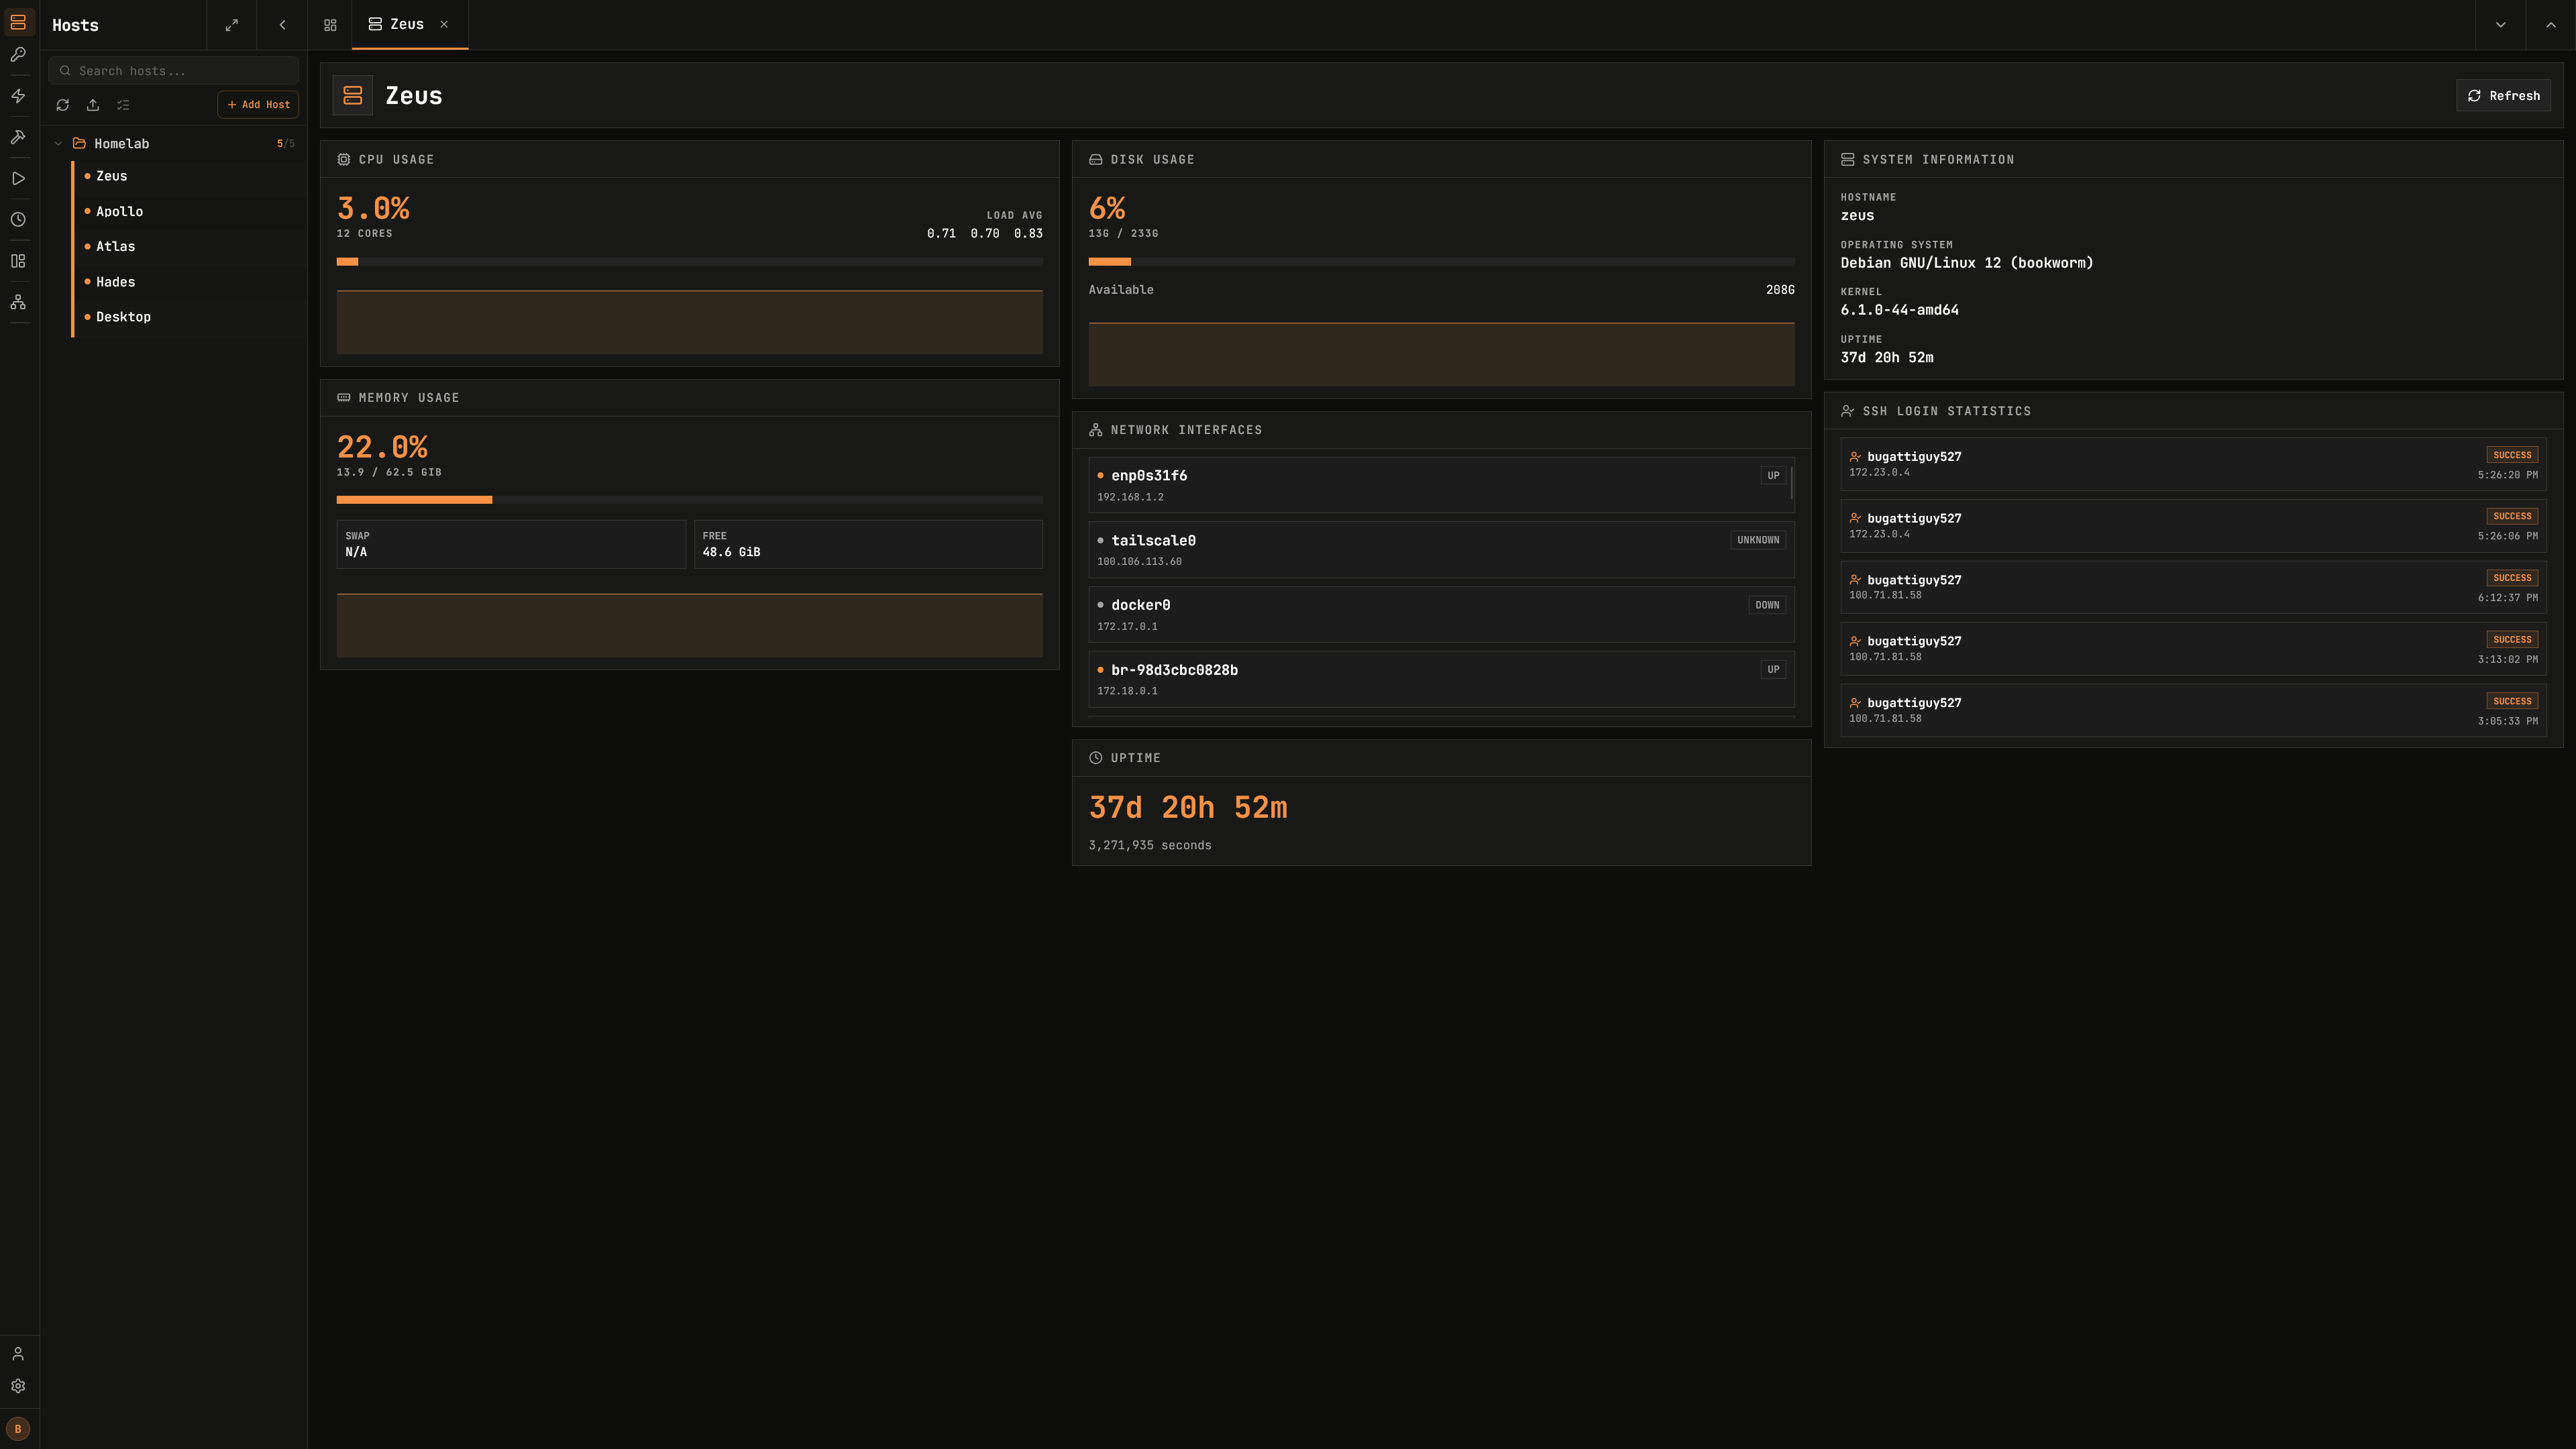
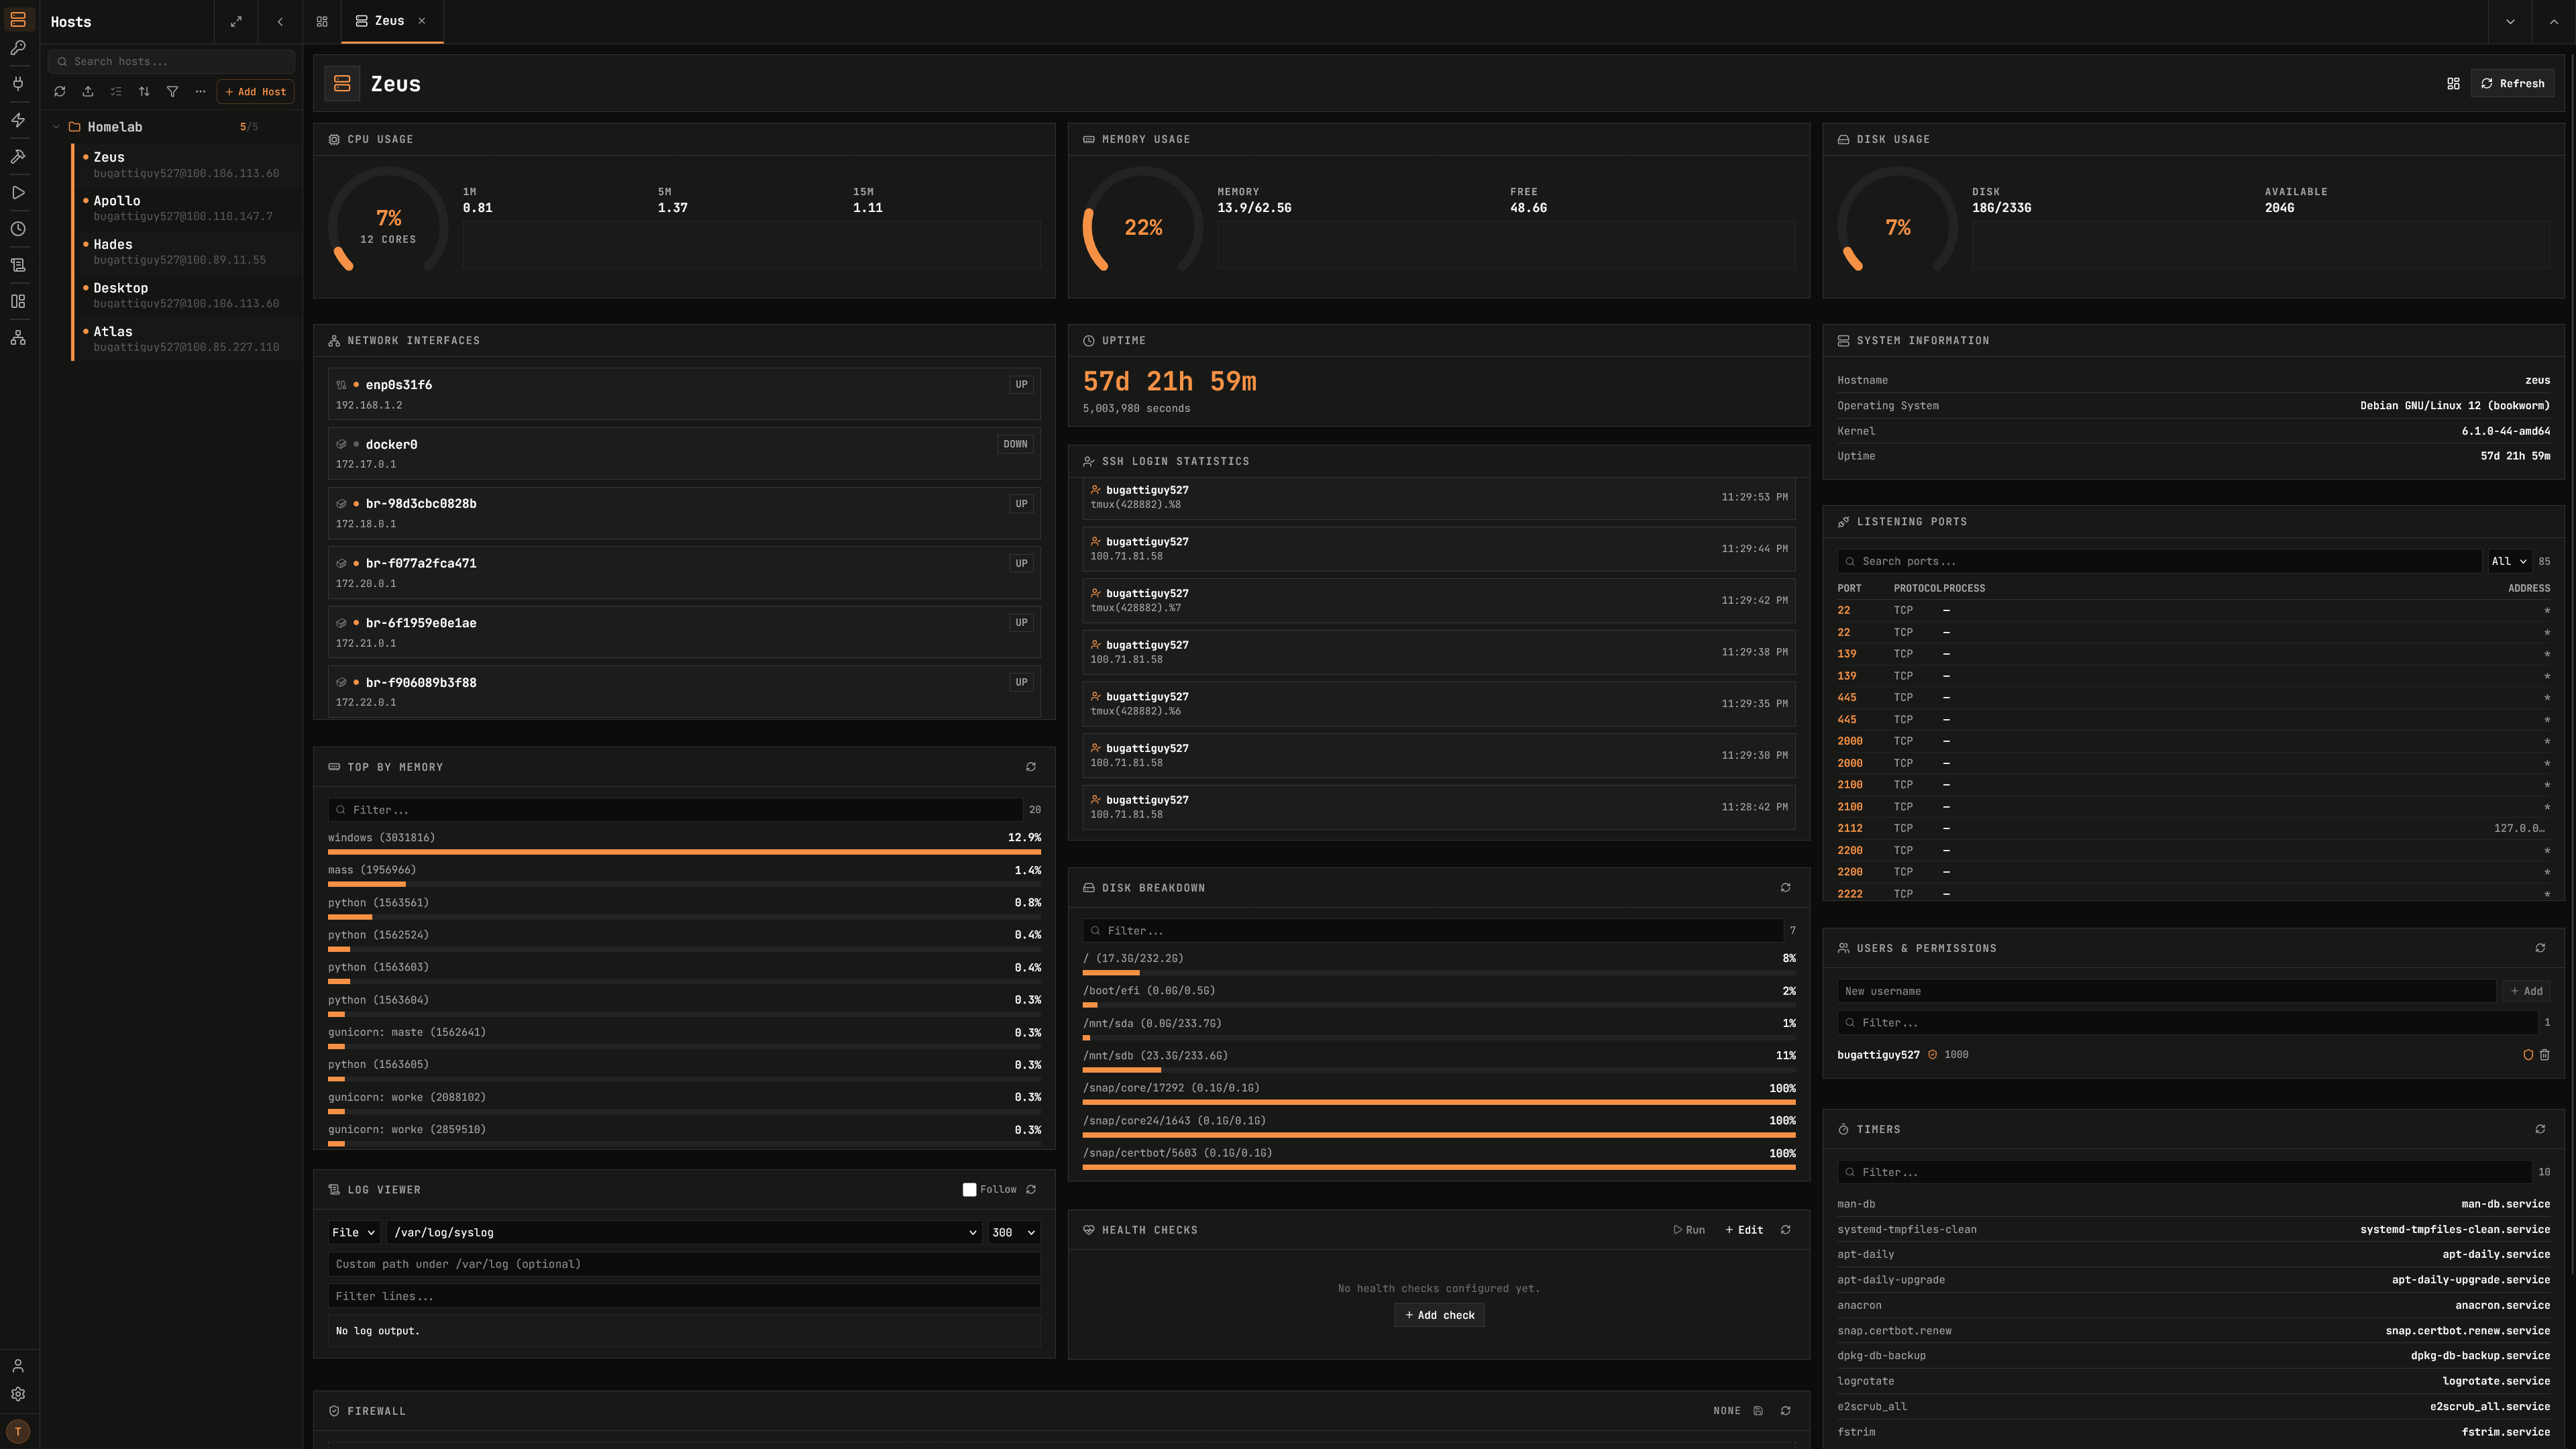
chore: update readmes

diff --git a/README.md b/README.md
@@ -94,21 +94,21 @@ Start, stop, pause, remove containers. View container stats. Control container u
 <td width="50%" valign="top">
 
 **SSH Host Manager:**
-Save, organize, and manage your SSH connections with tags and folders, and easily save reusable login info while being able to automate the deployment of SSH keys.
+Save, organize, and manage your SSH connections with tags and folders (folder customization and nested folder support), and easily save reusable login info while being able to automate the deployment of SSH keys.
 
 </td>
 </tr>
 <tr>
 <td width="50%" valign="top">
 
-**Server Stats:**
-View CPU, memory, and disk usage along with network, uptime, system information, firewall, port monitor, on most Linux based servers.
+**Host Metrics:**
+View CPU, memory, disk usage, network, uptime, system information, firewall, port monitor, log viewer, users/permissions, certificates, and many more which work on most Linux based servers.
 
 </td>
 <td width="50%" valign="top">
 
 **User Authentication:**
-Secure user management with admin controls and OIDC (with access control) and 2FA (TOTP) support. View active user sessions across all platforms and revoke permissions. Link your OIDC/Local accounts together.
+Secure user management with admin controls and OIDC/LDAP/SSO (with access control) and 2FA (TOTP) support. View active user sessions across all platforms and revoke permissions. Link your OIDC/Local accounts together. View audit log of all users actions.
 
 </td>
 </tr>
@@ -170,7 +170,8 @@ Built-in support ~30 languages (managed by [Crowdin](https://docs.termix.site/tr
 - **Command History** - Auto-complete and view previously ran SSH commands
 - **Quick Connect** - Connect to a server without having to save the connection data
 - **Command Palette** - Double tap left shift to quickly access SSH connections with your keyboard
-- **SSH Feature Rich** - Supports jump hosts, Warpgate, TOTP based connections, SOCKS5, host key verification, password autofill, [OPKSSH](https://github.com/openpubkey/opkssh), tmux, port knocking, etc.
+- **Proxmox Integration** - Auto-add hosts into Termix from your Proxmox instance
+- **SSH Feature Rich** - Supports jump hosts, Warpgate, TOTP based connections, SOCKS5, host key verification, password autofill, [OPKSSH](https://github.com/openpubkey/opkssh), tmux, port knocking, terminal logging, etc.
 
 </details>
 

diff --git a/readme/README-DE.md b/readme/README-DE.md
@@ -94,21 +94,21 @@ Container starten, stoppen, pausieren, entfernen. Container-Statistiken anzeigen
 <td width="50%" valign="top">
 
 **SSH-Host-Manager:**
-Speichern, organisieren und verwalten Sie Ihre SSH-Verbindungen mit Tags und Ordnern und speichern Sie einfach wiederverwendbare Anmeldeinformationen mit der Moglichkeit, die Bereitstellung von SSH-Schlusseln zu automatisieren.
+Speichern, organisieren und verwalten Sie Ihre SSH-Verbindungen mit Tags und Ordnern (Ordneranpassung und verschachtelte Ordner werden unterstutzt) und speichern Sie einfach wiederverwendbare Anmeldeinformationen mit der Moglichkeit, die Bereitstellung von SSH-Schlusseln zu automatisieren.
 
 </td>
 </tr>
 <tr>
 <td width="50%" valign="top">
 
-**Serverstatistiken:**
-CPU-, Arbeitsspeicher- und Festplattenauslastung sowie Netzwerk, Betriebszeit, Systeminformationen, Firewall, Port-Monitor auf den meisten Linux-basierten Servern anzeigen.
+**Host-Metriken:**
+CPU-, Arbeitsspeicher- und Festplattenauslastung, Netzwerk, Betriebszeit, Systeminformationen, Firewall, Port-Monitor, Log-Viewer, Benutzer/Berechtigungen, Zertifikate und vieles mehr auf den meisten Linux-basierten Servern anzeigen.
 
 </td>
 <td width="50%" valign="top">
 
 **Benutzerauthentifizierung:**
-Sichere Benutzerverwaltung mit Admin-Kontrollen und OIDC- (mit Zugriffskontrolle) sowie 2FA (TOTP)-Unterstutzung. Aktive Benutzersitzungen uber alle Plattformen anzeigen und Berechtigungen widerrufen. OIDC-/Lokale Konten miteinander verknupfen.
+Sichere Benutzerverwaltung mit Admin-Kontrollen und OIDC-/LDAP-/SSO-Unterstutzung (mit Zugriffskontrolle) sowie 2FA (TOTP)-Unterstutzung. Aktive Benutzersitzungen uber alle Plattformen anzeigen und Berechtigungen widerrufen. OIDC-/Lokale Konten miteinander verknupfen. Audit-Protokoll aller Benutzeraktionen anzeigen.
 
 </td>
 </tr>
@@ -170,7 +170,8 @@ Integrierte Unterstutzung fur ca. 30 Sprachen (verwaltet uber [Crowdin](https://
 - **Befehlsverlauf** - Autovervollstandigung und Anzeige zuvor ausgefuhrter SSH-Befehle
 - **Schnellverbindung** - Verbinden Sie sich mit einem Server, ohne die Verbindungsdaten speichern zu mussen
 - **Befehlspalette** - Doppeltippen Sie die linke Umschalttaste, um schnell auf SSH-Verbindungen mit Ihrer Tastatur zuzugreifen
-- **SSH-Funktionsreich** - Unterstutzt Jump-Hosts, Warpgate, TOTP-basierte Verbindungen, SOCKS5, Host-Key-Verifizierung, automatisches Ausfullen von Passwortern, [OPKSSH](https://github.com/openpubkey/opkssh), tmux, Port Knocking usw.
+- **Proxmox-Integration** - Automatisches Hinzufugen von Hosts zu Termix aus Ihrer Proxmox-Instanz
+- **SSH-Funktionsreich** - Unterstutzt Jump-Hosts, Warpgate, TOTP-basierte Verbindungen, SOCKS5, Host-Key-Verifizierung, automatisches Ausfullen von Passwortern, [OPKSSH](https://github.com/openpubkey/opkssh), tmux, Port Knocking, Terminal-Protokollierung usw.
 
 </details>
 

diff --git a/readme/README-ES.md b/readme/README-ES.md
@@ -94,21 +94,21 @@ Inicie, detenga, pause, elimine contenedores. Vea estadisticas de contenedores. 
 <td width="50%" valign="top">
 
 **Gestor de Hosts SSH:**
-Guarde, organice y gestione sus conexiones SSH con etiquetas y carpetas, y guarde facilmente informacion de inicio de sesion reutilizable con la capacidad de automatizar el despliegue de claves SSH.
+Guarde, organice y gestione sus conexiones SSH con etiquetas y carpetas (con personalizacion de carpetas y soporte de carpetas anidadas), y guarde facilmente informacion de inicio de sesion reutilizable con la capacidad de automatizar el despliegue de claves SSH.
 
 </td>
 </tr>
 <tr>
 <td width="50%" valign="top">
 
-**Estadisticas del Servidor:**
-Vea el uso de CPU, memoria y disco junto con red, tiempo de actividad, informacion del sistema, firewall, monitor de puertos en la mayoria de los servidores basados en Linux.
+**Metricas del Host:**
+Vea el uso de CPU, memoria y disco, red, tiempo de actividad, informacion del sistema, firewall, monitor de puertos, visor de registros, usuarios/permisos, certificados y muchos mas en la mayoria de los servidores basados en Linux.
 
 </td>
 <td width="50%" valign="top">
 
 **Autenticacion de Usuarios:**
-Gestion segura de usuarios con controles de administrador y soporte para OIDC (con control de acceso) y 2FA (TOTP). Vea sesiones activas de usuarios en todas las plataformas y revoque permisos. Vincule sus cuentas OIDC/Locales entre si.
+Gestion segura de usuarios con controles de administrador y soporte para OIDC/LDAP/SSO (con control de acceso) y 2FA (TOTP). Vea sesiones activas de usuarios en todas las plataformas y revoque permisos. Vincule sus cuentas OIDC/Locales entre si. Vea el registro de auditoria de las acciones de todos los usuarios.
 
 </td>
 </tr>
@@ -170,7 +170,8 @@ Soporte integrado para aproximadamente 30 idiomas (gestionado por [Crowdin](http
 - **Historial de Comandos** - Autocompletado y visualizacion de comandos SSH ejecutados anteriormente
 - **Conexion Rapida** - Conectese a un servidor sin necesidad de guardar los datos de conexion
 - **Paleta de Comandos** - Pulse dos veces la tecla Shift izquierda para acceder rapidamente a las conexiones SSH con su teclado
-- **SSH Rico en Funciones** - Soporta jump hosts, Warpgate, conexiones basadas en TOTP, SOCKS5, verificacion de clave de host, autocompletado de contrasenas, [OPKSSH](https://github.com/openpubkey/opkssh), tmux, port knocking, etc.
+- **Integracion con Proxmox** - Agregue automaticamente hosts a Termix desde su instancia de Proxmox
+- **SSH Rico en Funciones** - Soporta jump hosts, Warpgate, conexiones basadas en TOTP, SOCKS5, verificacion de clave de host, autocompletado de contrasenas, [OPKSSH](https://github.com/openpubkey/opkssh), tmux, port knocking, registro de terminal, etc.
 
 </details>
 

diff --git a/readme/README-FR.md b/readme/README-FR.md
@@ -94,21 +94,21 @@ Demarrez, arretez, mettez en pause, supprimez des conteneurs. Consultez les stat
 <td width="50%" valign="top">
 
 **Gestionnaire d'hotes SSH:**
-Enregistrez, organisez et gerez vos connexions SSH avec des tags et des dossiers, et sauvegardez facilement les informations de connexion reutilisables tout en automatisant le deploiement des cles SSH.
+Enregistrez, organisez et gerez vos connexions SSH avec des tags et des dossiers (personnalisation des dossiers et prise en charge des dossiers imbriques), et sauvegardez facilement les informations de connexion reutilisables tout en automatisant le deploiement des cles SSH.
 
 </td>
 </tr>
 <tr>
 <td width="50%" valign="top">
 
-**Statistiques serveur:**
-Visualisez l'utilisation du CPU, de la memoire et du disque ainsi que le reseau, le temps de fonctionnement, les informations systeme, le pare-feu et le moniteur de ports sur la plupart des serveurs Linux.
+**Metriques d'hote:**
+Visualisez l'utilisation du CPU, de la memoire, du disque, le reseau, le temps de fonctionnement, les informations systeme, le pare-feu, le moniteur de ports, le visualiseur de journaux, les utilisateurs/permissions, les certificats et bien plus encore sur la plupart des serveurs Linux.
 
 </td>
 <td width="50%" valign="top">
 
 **Authentification des utilisateurs:**
-Gestion securisee des utilisateurs avec controles administrateur et support OIDC (avec controle d'acces) et 2FA (TOTP). Visualisez les sessions utilisateur actives sur toutes les plateformes et revoquez les permissions. Liez vos comptes OIDC/locaux ensemble.
+Gestion securisee des utilisateurs avec controles administrateur et support OIDC/LDAP/SSO (avec controle d'acces) et 2FA (TOTP). Visualisez les sessions utilisateur actives sur toutes les plateformes et revoquez les permissions. Liez vos comptes OIDC/locaux ensemble. Consultez le journal d'audit des actions de tous les utilisateurs.
 
 </td>
 </tr>
@@ -170,7 +170,8 @@ Support integre d'environ 30 langues (gere par [Crowdin](https://docs.termix.sit
 - **Historique des commandes** - Auto-completion et consultation des commandes SSH precedemment executees
 - **Connexion rapide** - Connectez-vous a un serveur sans avoir a sauvegarder les donnees de connexion
 - **Palette de commandes** - Appuyez deux fois sur Shift gauche pour acceder rapidement aux connexions SSH avec votre clavier
-- **SSH riche en fonctionnalites** - Support des hotes de rebond, Warpgate, connexions basees sur TOTP, SOCKS5, verification des cles d'hote, remplissage automatique des mots de passe, [OPKSSH](https://github.com/openpubkey/opkssh), tmux, port knocking, etc.
+- **Integration Proxmox** - Ajoutez automatiquement des hotes dans Termix depuis votre instance Proxmox
+- **SSH riche en fonctionnalites** - Support des hotes de rebond, Warpgate, connexions basees sur TOTP, SOCKS5, verification des cles d'hote, remplissage automatique des mots de passe, [OPKSSH](https://github.com/openpubkey/opkssh), tmux, port knocking, journalisation du terminal, etc.
 
 </details>
 

diff --git a/readme/README-HI.md b/readme/README-HI.md
@@ -94,21 +94,21 @@ Termix एक ओपन-सोर्स, हमेशा के लिए मु
 <td width="50%" valign="top">
 
 **SSH होस्ट मैनेजर:**
-टैग और फ़ोल्डर के साथ अपने SSH कनेक्शन सहेजें, व्यवस्थित करें और प्रबंधित करें, और SSH कुंजियों की तैनाती को स्वचालित करने की क्षमता के साथ पुन: उपयोग योग्य लॉगिन जानकारी आसानी से सहेजें।
+टैग और फ़ोल्डर (फ़ोल्डर कस्टमाइज़ेशन और नेस्टेड फ़ोल्डर सपोर्ट के साथ) के साथ अपने SSH कनेक्शन सहेजें, व्यवस्थित करें और प्रबंधित करें, और SSH कुंजियों की तैनाती को स्वचालित करने की क्षमता के साथ पुन: उपयोग योग्य लॉगिन जानकारी आसानी से सहेजें।
 
 </td>
 </tr>
 <tr>
 <td width="50%" valign="top">
 
-**सर्वर आँकड़े:**
-अधिकांश Linux आधारित सर्वर पर नेटवर्क, अपटाइम, सिस्टम जानकारी, फ़ायरवॉल, पोर्ट मॉनिटर के साथ CPU, मेमोरी और डिस्क उपयोग देखें।
+**होस्ट मेट्रिक्स:**
+अधिकांश Linux आधारित सर्वर पर CPU, मेमोरी, डिस्क उपयोग, नेटवर्क, अपटाइम, सिस्टम जानकारी, फ़ायरवॉल, पोर्ट मॉनिटर, लॉग व्यूअर, उपयोगकर्ता/अनुमतियाँ, सर्टिफ़िकेट और भी बहुत कुछ देखें।
 
 </td>
 <td width="50%" valign="top">
 
 **उपयोगकर्ता प्रमाणीकरण:**
-व्यवस्थापक नियंत्रण और OIDC (एक्सेस कंट्रोल के साथ) और 2FA (TOTP) सपोर्ट के साथ सुरक्षित उपयोगकर्ता प्रबंधन। सभी प्लेटफ़ॉर्म पर सक्रिय उपयोगकर्ता सत्र देखें और अनुमतियाँ रद्द करें। अपने OIDC/स्थानीय खातों को एक साथ जोड़ें।
+व्यवस्थापक नियंत्रण और OIDC/LDAP/SSO (एक्सेस कंट्रोल के साथ) और 2FA (TOTP) सपोर्ट के साथ सुरक्षित उपयोगकर्ता प्रबंधन। सभी प्लेटफ़ॉर्म पर सक्रिय उपयोगकर्ता सत्र देखें और अनुमतियाँ रद्द करें। अपने OIDC/स्थानीय खातों को एक साथ जोड़ें। सभी उपयोगकर्ताओं की कार्रवाइयों का ऑडिट लॉग देखें।
 
 </td>
 </tr>
@@ -170,7 +170,8 @@ Termix एक ओपन-सोर्स, हमेशा के लिए मु
 - **कमांड इतिहास** - पहले चलाए गए SSH कमांड का ऑटो-कम्प्लीट और दृश्य
 - **क्विक कनेक्ट** - कनेक्शन डेटा सहेजे बिना सर्वर से कनेक्ट करें
 - **कमांड पैलेट** - अपने कीबोर्ड से SSH कनेक्शन तक त्वरित पहुँच के लिए बाएँ Shift को दो बार टैप करें
-- **SSH सुविधाओं से भरपूर** - जम्प होस्ट, Warpgate, TOTP आधारित कनेक्शन, SOCKS5, होस्ट की वेरिफ़िकेशन, पासवर्ड ऑटोफ़िल, [OPKSSH](https://github.com/openpubkey/opkssh), tmux, पोर्ट नॉकिंग आदि का सपोर्ट
+- **Proxmox एकीकरण** - अपने Proxmox इंस्टेंस से Termix में होस्ट स्वचालित रूप से जोड़ें
+- **SSH सुविधाओं से भरपूर** - जम्प होस्ट, Warpgate, TOTP आधारित कनेक्शन, SOCKS5, होस्ट की वेरिफ़िकेशन, पासवर्ड ऑटोफ़िल, [OPKSSH](https://github.com/openpubkey/opkssh), tmux, पोर्ट नॉकिंग, टर्मिनल लॉगिंग आदि का सपोर्ट
 
 </details>
 

diff --git a/readme/README-IT.md b/readme/README-IT.md
@@ -94,21 +94,21 @@ Avvia, ferma, metti in pausa, rimuovi container. Visualizza le statistiche dei c
 <td width="50%" valign="top">
 
 **Gestore Host SSH:**
-Salva, organizza e gestisci le tue connessioni SSH con tag e cartelle, salva facilmente le informazioni di accesso riutilizzabili e automatizza il deployment delle chiavi SSH.
+Salva, organizza e gestisci le tue connessioni SSH con tag e cartelle (con personalizzazione delle cartelle e supporto per cartelle annidate), salva facilmente le informazioni di accesso riutilizzabili e automatizza il deployment delle chiavi SSH.
 
 </td>
 </tr>
 <tr>
 <td width="50%" valign="top">
 
-**Statistiche Server:**
-Visualizza l'utilizzo di CPU, memoria e disco insieme a rete, uptime, informazioni di sistema, firewall, monitoraggio porte sulla maggior parte dei server basati su Linux.
+**Metriche Host:**
+Visualizza l'utilizzo di CPU, memoria, disco, rete, uptime, informazioni di sistema, firewall, monitoraggio porte, visualizzatore di log, utenti/permessi, certificati e molto altro sulla maggior parte dei server basati su Linux.
 
 </td>
 <td width="50%" valign="top">
 
 **Autenticazione Utente:**
-Gestione utenti sicura con controlli amministrativi e supporto OIDC (con controllo degli accessi) e 2FA (TOTP). Visualizza le sessioni utente attive su tutte le piattaforme e revoca i permessi. Collega i tuoi account OIDC/Locali tra loro.
+Gestione utenti sicura con controlli amministrativi e supporto OIDC/LDAP/SSO (con controllo degli accessi) e 2FA (TOTP). Visualizza le sessioni utente attive su tutte le piattaforme e revoca i permessi. Collega i tuoi account OIDC/Locali tra loro. Visualizza il log di controllo delle azioni di tutti gli utenti.
 
 </td>
 </tr>
@@ -170,7 +170,8 @@ Supporto integrato per circa 30 lingue (gestito da [Crowdin](https://docs.termix
 - **Cronologia Comandi** - Autocompletamento e visualizzazione dei comandi SSH eseguiti in precedenza
 - **Connessione Rapida** - Connettiti a un server senza dover salvare i dati di connessione
 - **Palette Comandi** - Premi due volte shift sinistro per accedere rapidamente alle connessioni SSH con la tastiera
-- **SSH Ricco di Funzionalita** - Supporta jump host, Warpgate, connessioni basate su TOTP, SOCKS5, verifica chiave host, compilazione automatica password, [OPKSSH](https://github.com/openpubkey/opkssh), tmux, port knocking, ecc.
+- **Integrazione Proxmox** - Aggiungi automaticamente host a Termix dalla tua istanza Proxmox
+- **SSH Ricco di Funzionalita** - Supporta jump host, Warpgate, connessioni basate su TOTP, SOCKS5, verifica chiave host, compilazione automatica password, [OPKSSH](https://github.com/openpubkey/opkssh), tmux, port knocking, registrazione terminale, ecc.
 
 </details>
 

diff --git a/readme/README-KO.md b/readme/README-KO.md
@@ -94,21 +94,21 @@ Termix는 오픈 소스이며 영구 무료인 셀프 호스팅 올인원 서버
 <td width="50%" valign="top">
 
 **SSH 호스트 관리자:**
-태그와 폴더로 SSH 연결을 저장, 정리, 관리하고, 재사용 가능한 로그인 정보를 쉽게 저장하면서 SSH 키 배포를 자동화.
+태그와 폴더(폴더 사용자 지정 및 중첩 폴더 지원)로 SSH 연결을 저장, 정리, 관리하고, 재사용 가능한 로그인 정보를 쉽게 저장하면서 SSH 키 배포를 자동화.
 
 </td>
 </tr>
 <tr>
 <td width="50%" valign="top">
 
-**서버 통계:**
-대부분의 Linux 기반 서버에서 CPU, 메모리, 디스크 사용량과 함께 네트워크, 업타임, 시스템 정보, 방화벽, 포트 모니터를 표시.
+**호스트 메트릭:**
+대부분의 Linux 기반 서버에서 CPU, 메모리, 디스크 사용량, 네트워크, 업타임, 시스템 정보, 방화벽, 포트 모니터, 로그 뷰어, 사용자/권한, 인증서 등 다양한 정보를 표시.
 
 </td>
 <td width="50%" valign="top">
 
 **사용자 인증:**
-관리자 제어와 OIDC(액세스 제어 포함) 및 2FA(TOTP) 지원을 통한 안전한 사용자 관리. 모든 플랫폼에서 활성 사용자 세션을 보고 권한을 취소 가능. OIDC/로컬 계정 연동.
+관리자 제어와 OIDC/LDAP/SSO(액세스 제어 포함) 및 2FA(TOTP) 지원을 통한 안전한 사용자 관리. 모든 플랫폼에서 활성 사용자 세션을 보고 권한을 취소 가능. OIDC/로컬 계정 연동. 모든 사용자 작업의 감사 로그 조회.
 
 </td>
 </tr>
@@ -170,7 +170,8 @@ Termix는 오픈 소스이며 영구 무료인 셀프 호스팅 올인원 서버
 - **명령어 기록** - 이전에 실행한 SSH 명령어의 자동 완성 및 조회
 - **빠른 연결** - 연결 데이터를 저장하지 않고 서버에 접속
 - **명령어 팔레트** - 왼쪽 Shift 키를 두 번 눌러 키보드로 SSH 연결에 빠르게 접근
-- **풍부한 SSH 기능** - 점프 호스트, Warpgate, TOTP 기반 연결, SOCKS5, 호스트 키 검증, 비밀번호 자동 입력, [OPKSSH](https://github.com/openpubkey/opkssh), tmux, 포트 노킹 등 지원
+- **Proxmox 통합** - Proxmox 인스턴스에서 Termix로 호스트를 자동 추가
+- **풍부한 SSH 기능** - 점프 호스트, Warpgate, TOTP 기반 연결, SOCKS5, 호스트 키 검증, 비밀번호 자동 입력, [OPKSSH](https://github.com/openpubkey/opkssh), tmux, 포트 노킹, 터미널 로깅 등 지원
 
 </details>
 

diff --git a/readme/README-PT.md b/readme/README-PT.md
@@ -94,21 +94,21 @@ Inicie, pare, pause, remova conteineres. Visualize estatisticas de conteineres. 
 <td width="50%" valign="top">
 
 **Gerenciador de Hosts SSH:**
-Salve, organize e gerencie suas conexoes SSH com tags e pastas, e salve facilmente informacoes de login reutilizaveis com a capacidade de automatizar a implantacao de chaves SSH.
+Salve, organize e gerencie suas conexoes SSH com tags e pastas (com personalizacao de pastas e suporte a pastas aninhadas), e salve facilmente informacoes de login reutilizaveis com a capacidade de automatizar a implantacao de chaves SSH.
 
 </td>
 </tr>
 <tr>
 <td width="50%" valign="top">
 
-**Estatisticas do Servidor:**
-Visualize o uso de CPU, memoria e disco junto com rede, tempo de atividade, informacoes do sistema, firewall, monitor de portas na maioria dos servidores baseados em Linux.
+**Metricas do Host:**
+Visualize o uso de CPU, memoria e disco, rede, tempo de atividade, informacoes do sistema, firewall, monitor de portas, visualizador de logs, usuarios/permissoes, certificados e muito mais na maioria dos servidores baseados em Linux.
 
 </td>
 <td width="50%" valign="top">
 
 **Autenticacao de Usuarios:**
-Gerenciamento seguro de usuarios com controles de administrador e suporte para OIDC (com controle de acesso) e 2FA (TOTP). Visualize sessoes ativas de usuarios em todas as plataformas e revogue permissoes. Vincule suas contas OIDC/Locais entre si.
+Gerenciamento seguro de usuarios com controles de administrador e suporte para OIDC/LDAP/SSO (com controle de acesso) e 2FA (TOTP). Visualize sessoes ativas de usuarios em todas as plataformas e revogue permissoes. Vincule suas contas OIDC/Locais entre si. Visualize o log de auditoria de todas as acoes dos usuarios.
 
 </td>
 </tr>
@@ -170,7 +170,8 @@ Suporte integrado para aproximadamente 30 idiomas (gerenciado pelo [Crowdin](htt
 - **Historico de Comandos** - Autocompletar e visualizar comandos SSH executados anteriormente
 - **Conexao Rapida** - Conecte-se a um servidor sem precisar salvar os dados de conexao
 - **Paleta de Comandos** - Pressione duas vezes a tecla Shift esquerda para acessar rapidamente as conexoes SSH com seu teclado
-- **SSH Rico em Funcionalidades** - Suporta jump hosts, Warpgate, conexoes baseadas em TOTP, SOCKS5, verificacao de chave do host, preenchimento automatico de senhas, [OPKSSH](https://github.com/openpubkey/opkssh), tmux, port knocking, etc.
+- **Integracao com Proxmox** - Adicione automaticamente hosts ao Termix a partir da sua instancia Proxmox
+- **SSH Rico em Funcionalidades** - Suporta jump hosts, Warpgate, conexoes baseadas em TOTP, SOCKS5, verificacao de chave do host, preenchimento automatico de senhas, [OPKSSH](https://github.com/openpubkey/opkssh), tmux, port knocking, registro de terminal, etc.
 
 </details>
 